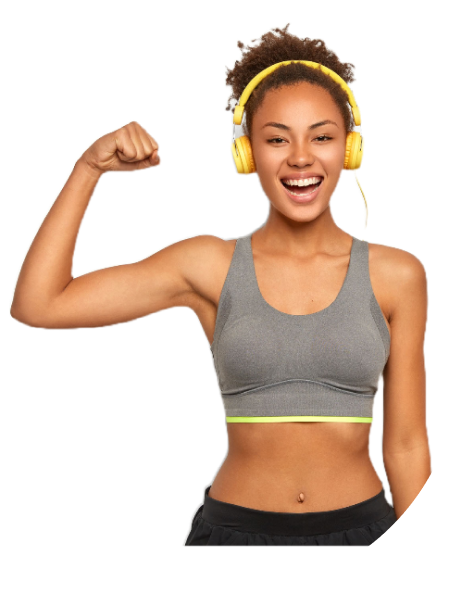
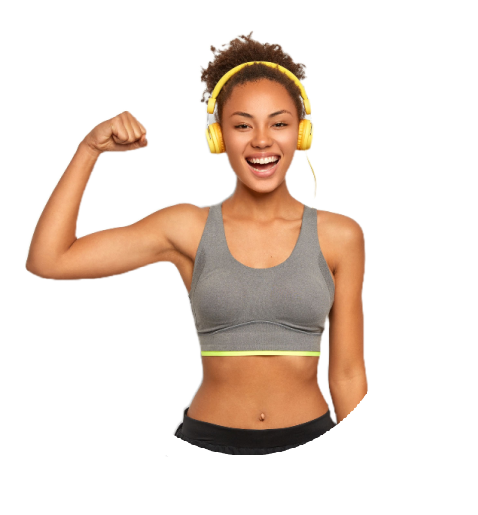
Adding tablet style

diff --git a/index.html b/index.html
@@ -151,7 +151,7 @@
 
                 <div class="countdown">
                   <div class="container">
-                    <p>Your offer ends in:</p>
+                    <p class="offer-announce">Your offer ends in:</p>
 
                     <div class="cronometer">
                       <div class="countdown-item">
@@ -183,12 +183,13 @@
                 high demand for service. No credit card or insurance required.
               </p>
 
-              <p class="resp-text">There are limited spots due to the Physicians schedule and the high demand for service. No credit card or insurance required.</p>
+              <p class="resp-text">
+                There are limited spots due to the Physicians schedule and the
+                high demand for service. No credit card or insurance required.
+              </p>
 
               <button>Book my appointment</button>
             </div>
-
-            <h1 class="announce"></h1>
           </div>
         </section>
 
@@ -321,6 +322,7 @@
 
         <section class="who-is-it-section">
           <div class="content">
+            <div class="decorative-circle"></div>
             <div class="text">
               <div class="row">
                 <h2>Who Is The Consultation For?</h2>
@@ -345,18 +347,19 @@
               <button>Book my appointment</button>
             </div>
 
-            <div class="image-composition">
-              <div class="decorative-circle"></div>
-              <!-- 
-              <img src="./src/img/Person - 1.png" alt="" class="person-icon" /> -->
+            <!-- Yes, I cheated on this image. I liked the challenge but I was lacking of time and there was things that needed my attention. So I created it in Photoshop and then scale it. Now i realize that the quality could be 10x times better if I used Illustrator instead of Photoshop.  -->
 
-              <div class="semi-circle"></div>
-            </div>
+            <img src="./src/img/Person - 1.png" alt="" class="person-icon" />
+
+            <div class="decorative-circle"></div>
+            <div class="decorative-circle"></div>
           </div>
         </section>
 
         <section class="we-can-help-you-section">
-          <div class="content">
+          <div class="content"> 
+            <div class="decorative-circle"></div>
+
             <h2>We Can Help You</h2>
 
             <p>
@@ -364,10 +367,20 @@
               hope. We have seen so many tricks, gimmicks and weight loss
               programs that simply do not work for us. They want us to eat like
               a pigeon, avoid all the things we love to eat and work out till we
-              cry. We are here to tell you that it doesn’t have to be that way.
-              There is hope! Technology has advanced rapidly in recent years and
-              now, with proper guidance...
+              cry.
             </p>
+
+            <p>
+              We are here to tell you that it doesn’t have to be that way. There
+              is hope! Technology has advanced rapidly in recent years and now,
+              with proper guidance...
+            </p>
+
+            <img
+              src="./src/img/Persons - 2 - alt.png"
+              alt=""
+              class="team-img-alt"
+            />
 
             <p>
               You can join the ranks of our over 15,000 satisfied clients who
@@ -380,7 +393,7 @@
 
             <button>Book my appointment</button>
           </div>
-          <img src="./src/img/Persons - 2.png" alt="" class="team-img" />
+          <img src="./src/img/Persons - 2.png" alt="" class="team-img-main" />
         </section>
 
         <section class="what-you-get-section">
@@ -770,5 +783,6 @@
     <script src="./src/js/countdown.js"></script>
     <script src="./src/js/dropdown.js"></script>
     <script src="./src/js/hamburger.js"></script>
+    <script src="./src/js/changeImage.js"></script>
   </body>
 </html>

diff --git a/src/css/tablet.css b/src/css/tablet.css
@@ -287,4 +287,174 @@
     top: 5%;
     left: 40%;
   }
+
+  /* Stats section  */
+
+  .stats-section {
+  }
+
+  .stats-section .content {
+    margin: 2em;
+    margin-bottom: 3em;
+  }
+
+  .stats-section .content .cards {
+  }
+
+  .stats-section .content .cards .card {
+    display: flex;
+    width: 146px;
+    height: 215px;
+    padding: 20px 0px;
+    flex-direction: column;
+    justify-content: center;
+    align-items: center;
+    gap: 6px;
+    flex-shrink: 0;
+    margin: 1em;
+  }
+
+  .stats-section .content .cards .card.stat-card {
+    justify-content: space-around;
+  }
+
+  .stats-section .content .cards .card.stat-card svg {
+    width: 24px;
+    height: 24px;
+    flex-shrink: 0;
+  }
+
+  .stats-section .content .cards .card.stat-card .number {
+    font-size: 24px;
+  }
+
+  .stats-section .content .cards .card.stat-card p {
+    display: flex;
+    width: 123px;
+    height: 94px;
+    flex-direction: column;
+    justify-content: center;
+    flex-shrink: 0;
+    font-size: 16px;
+  }
+
+  .stats-section .content button {
+    margin-top: 1.5em;
+  }
+
+  .stats-section .content .decorative-circle:nth-child(1) {
+    display: none;
+  }
+
+  .stats-section .content .decorative-circle:nth-child(4) {
+    width: 181px;
+    height: 181px;
+    top: 40%;
+    right: -5%;
+    flex-shrink: 0;
+  }
+
+  /* Who-is-it-section */
+  .who-is-it-section {
+  }
+
+  .who-is-it-section .content {
+    display: flex;
+    flex-direction: column;
+  }
+
+  .who-is-it-section .content .text .row h2 {
+    width: 408px;
+    font-size: 32px;
+  }
+
+  .who-is-it-section .content .text .row p {
+    width: 440px;
+    height: 130px;
+    flex-shrink: 0;
+  }
+
+  .who-is-it-section .content img {
+    margin: 5em;
+    margin-bottom: 0;
+  }
+
+  .who-is-it-section .content .decorative-circle:nth-child(1) {
+    width: 413px;
+    height: 413px;
+    flex-shrink: 0;
+    border-radius: 413px;
+    border: 28px solid #fff;
+    opacity: 0.15;
+    left: -40%;
+  }
+
+  .who-is-it-section .content .decorative-circle:nth-child(4) {
+    width: 108.983px;
+    height: 108.983px;
+    flex-shrink: 0;
+    border: 20px solid var(--white);
+    top: 50%;
+    right: 25%;
+    flex-shrink: 0;
+  }
+
+  .who-is-it-section .content .decorative-circle:nth-child(5) {
+    width: 413px;
+    height: 413px;
+    flex-shrink: 0;
+    flex-shrink: 0;
+    border-radius: 489px;
+    border: 28px solid #fff;
+    opacity: 0.15;
+    top: 5%;
+    right: -30%;
+  }
+
+  .who-is-it-section .content button {
+    display: flex;
+    justify-content: center;
+    margin: 2em auto;
+    align-items: center;
+  }
+
+  /* We can help you  */
+  .we-can-help-you-section {
+    background: var(--white);
+  }
+
+  .we-can-help-you-section .content {
+  }
+
+  .we-can-help-you-section .content h2 {
+    width: 439px;
+    z-index: 2;
+  }
+
+  .we-can-help-you-section .content p {
+    width: 440px;
+    text-align: justify;
+    z-index: 2;
+  }
+
+  .we-can-help-you-section .team-img-main {
+    display: none;
+  }
+
+  .we-can-help-you-section .content .team-img-alt {
+    display: block;
+    margin: 2em;
+  }
+
+  .we-can-help-you-section .content .decorative-circle {
+    display: block;
+    width: 388px;
+    height: 388px;
+    flex-shrink: 0;
+    border-radius: 388px;
+    border: 28px solid #f9f9f9;
+    top: 0;
+    right: -10%;
+    z-index: 1;
+  }
 }

diff --git a/src/css/desktop.css b/src/css/desktop.css
@@ -302,6 +302,13 @@ header nav ul li:hover {
   margin: 1em;
 }
 
+.offer-announce{
+  text-align: center;
+  display: flex;
+  justify-content: center;
+
+}
+
 /* Decorative circles hero section  */
 .hero-section .decorative-circle {
   width: 368px;
@@ -389,6 +396,7 @@ header nav ul li:hover {
 }
 
 .who-is-it-section .content {
+  position: relative;
   margin: 5em;
   display: flex;
   justify-content: center;
@@ -430,14 +438,33 @@ header nav ul li:hover {
   background: var(--pink);
 }
 
-/* Image decoration  */
+/* Decorative circles */
 
-.who-is-it-section .content .image-composition {
-  position: relative;
+.who-is-it-section .content .decorative-circle:nth-child(1) {
+  width: 271px;
+  height: 271px;
+  flex-shrink: 0;
+  border-radius: 271px;
+  border: 28px solid #fff;
+  left: -7%;
 }
-.who-is-it-section .content .image-composition .decorative-circle {
-  top: -15em;
-  background-image: url("./src/img/Person\ -\ 1.png");
+
+.who-is-it-section .content .decorative-circle:nth-child(4) {
+  width: 85px;
+  height: 85px;
+  top: 15%;
+  right: 25%;
+  flex-shrink: 0;
+}
+
+.who-is-it-section .content .decorative-circle:nth-child(5) {
+  width: 489px;
+  height: 489px;
+  flex-shrink: 0;
+  border-radius: 489px;
+  border: 28px solid #fff;
+  opacity: 0.15;
+  right: -10%;
 }
 
 /* -------- We can help you section ---------  */
@@ -451,6 +478,7 @@ header nav ul li:hover {
   align-items: center;
   text-align: center;
   margin: 5em;
+  position: relative;
 }
 
 .we-can-help-you-section .content h2 {
@@ -478,6 +506,14 @@ header nav ul li:hover {
 
 .we-can-help-you-section .content button {
   background: var(--pink);
+}
+
+.we-can-help-you-section .content .team-img-alt{
+  display: none;
+}
+
+.we-can-help-you-section .content .decorative-circle{
+  display: none;
 }
 
 /* -------- What you'll get --------  */
@@ -639,6 +675,7 @@ header nav ul li:hover {
   background: var(--light);
   margin: 1em 0;
   border-radius: 20px;
+  cursor: pointer;
 }
 
 .faqs-section .content .faqs-item {

diff --git a/src/js/changeImage.js b/src/js/changeImage.js
@@ -1,0 +1,9 @@
+// This is a test script I made for the changing of the images in the desktop and mobile layouts. I rejected it because I need to put more work in the structure but could be an example of DOM manipulation on this type of project
+
+// const teamImg = document.querySelector(".team-img");
+
+// const windowWidth = window.innerWidth;
+
+// if (windowWidth < 820) {
+//   teamImg.setAttribute("src", "./src/img/Persons - 2 - alt.png");
+// }

diff --git a/src/js/countdown.js b/src/js/countdown.js
@@ -22,8 +22,8 @@ let interval = setInterval(() => {
 
   if (dif < 0) {
     clearInterval(interval);
-    const announce = document.querySelector(".announce");
-    announce.innerHTML = "terminado";
+    const announce = document.querySelector(".offer-announce");
+    announce.innerHTML = "¡The offer has ended! <br>Contact us to know more about our services."
     showDays.innerHTML = 0;
     showHours.innerHTML = 0;
     showMinutes.innerHTML = 0;
